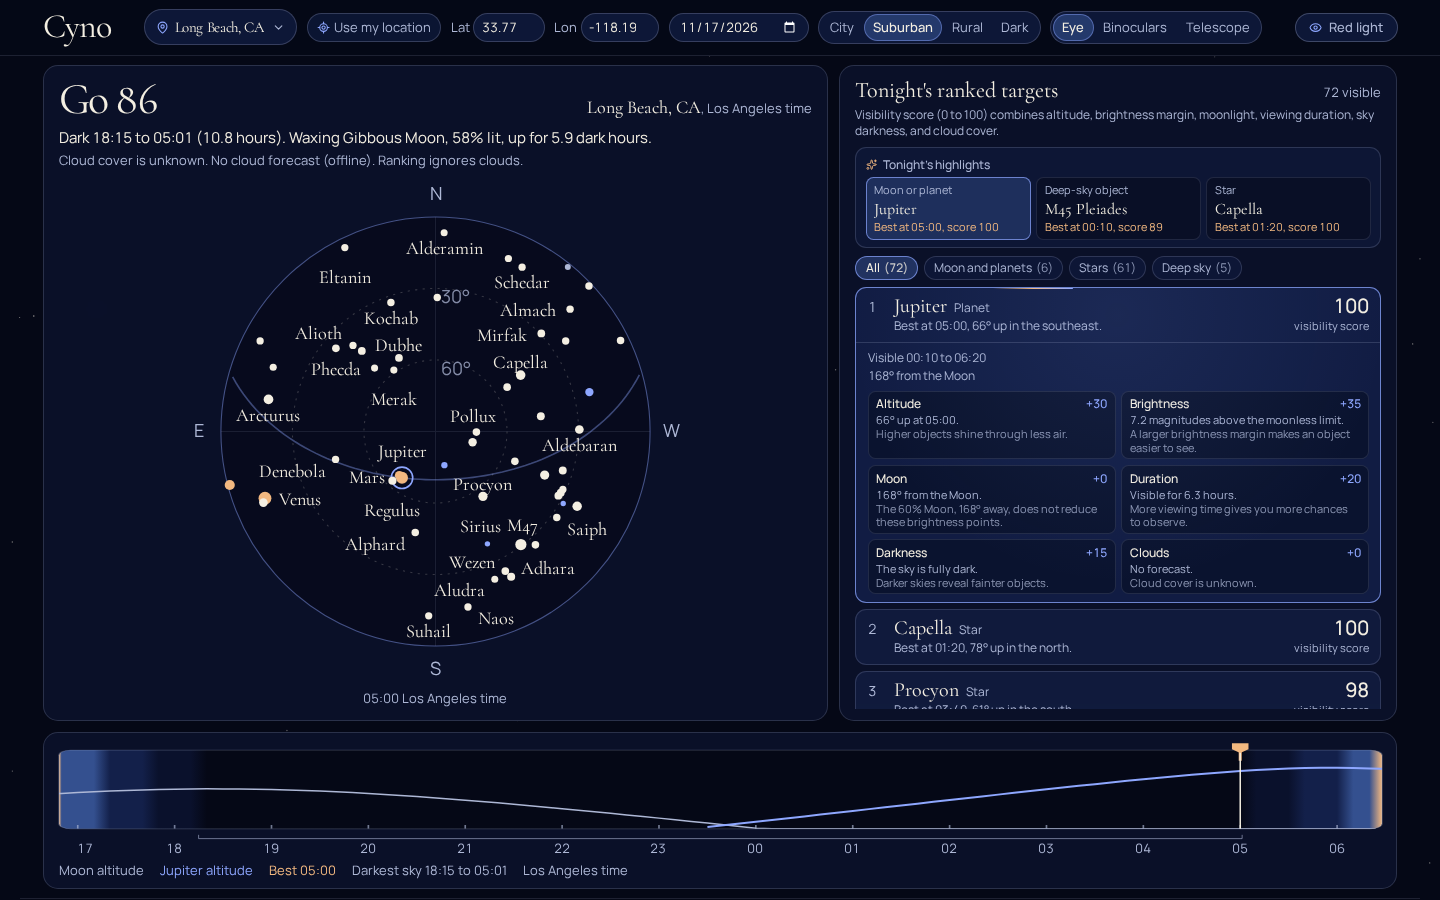
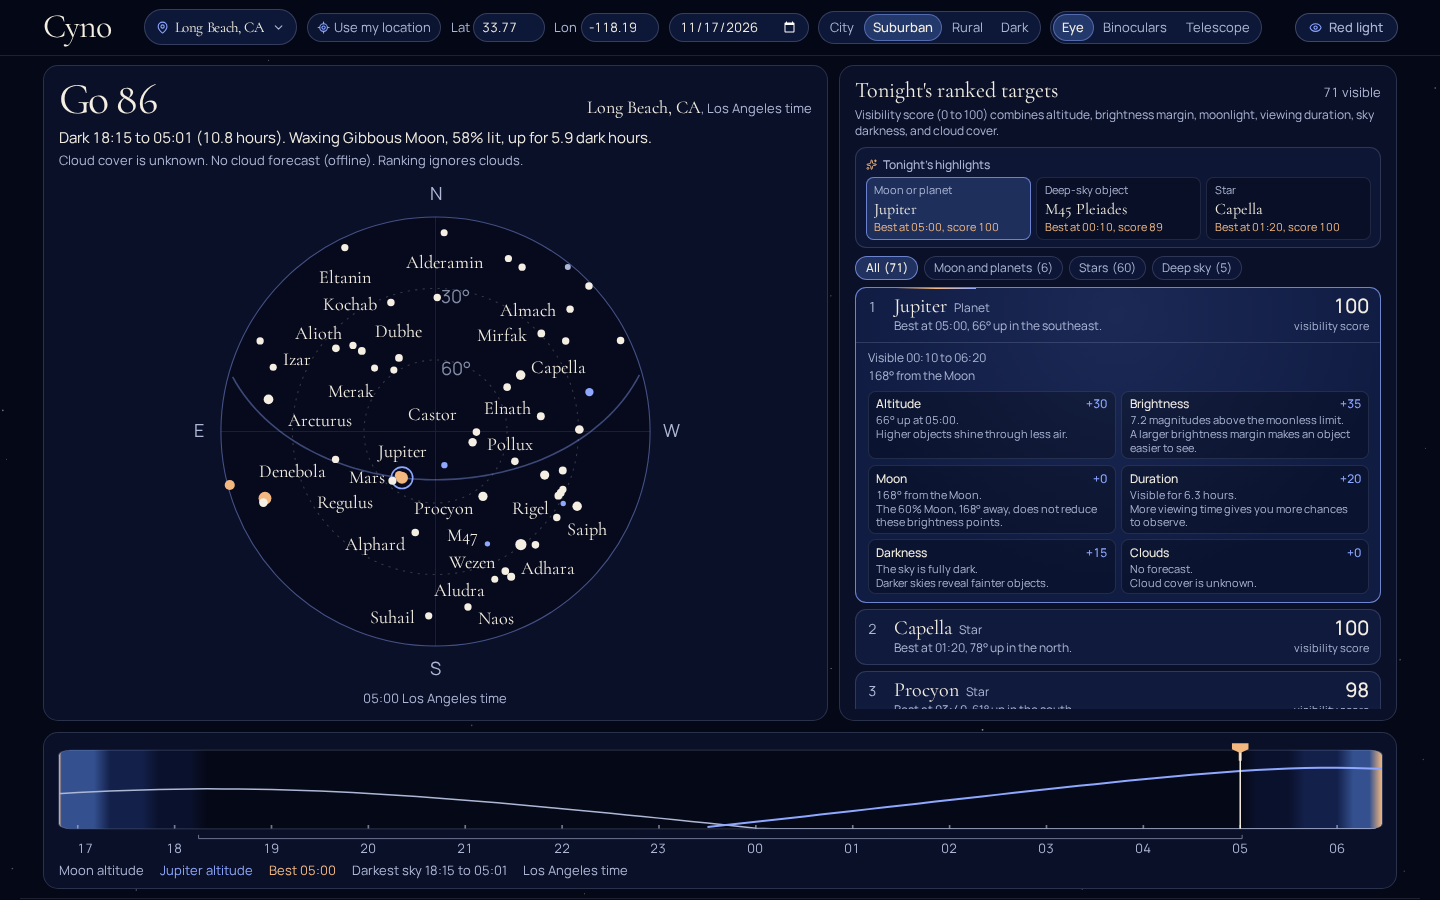
Link the live site in the README and refresh the screenshots
The app is live at https://bananatruck.github.io/Cyno/. The README also
states the new no-go rule and the extinction air mass, and the screenshots
show the current UI.

diff --git a/README.md b/README.md
@@ -4,7 +4,7 @@ Design notes for an agentic astronomy assistant - a companion that answers
 space questions, plans stargazing around your location and the weather, and
 tells you when something worth looking at is about to happen.
 
-> **Milestone 1 is built: what can I see tonight.**
+> **Milestone 1 is built: what can I see tonight.** Try it at https://bananatruck.github.io/Cyno/
 > Give it a latitude, longitude and date, and it returns a ranked list of the objects you can actually see, with the reasoning for every rank, a sky chart and a night timeline.
 > It runs entirely in the browser with no keys, no server and no model calls.
 > The conversational assistant, notifications and everything else in the plans below are not built yet.
@@ -17,7 +17,7 @@ tells you when something worth looking at is about to happen.
 
 The desktop, phone and Red-Light screenshots show Long Beach, CA on 2026-11-17, and the third table image shows Tromso on 2026-06-21.
 The browser test takes them with the cloud forecast blocked, so they show computed data only.
-They are not deployed anywhere yet; see "Run it" to open the app locally.
+The app is live at **https://bananatruck.github.io/Cyno/**, deployed from `main` by the Pages workflow.
 
 ## What is here
 
@@ -108,7 +108,7 @@ Polar day, polar night and summer nights that never get fully dark are normal re
 **Visibility is an estimate from a sky-brightness model.**
 The sky's brightness is the sum of three sources: light pollution (a preset from city to dark site), twilight, and moonlight at the object's position from the Krisciunas and Schaefer (1991) model.
 That brightness sets a limiting magnitude, raised by a fixed amount for binoculars or a telescope.
-An object's magnitude is dimmed by the air it shines through and, for galaxies and nebulae, by a penalty for being spread out.
+An object's magnitude is dimmed by the air it shines through (using the paper's air mass for directly observed objects, which reaches 40 at the horizon) and, for galaxies and nebulae, by a penalty for being spread out.
 The difference is the margin: an object is visible when it is at least 10 degrees up, the Sun is below -0.833 degrees, the margin is zero or more, and clouds (when a forecast is available) are under 80 percent.
 The best moment is the visible sample with the largest margin.
 
@@ -127,6 +127,7 @@ The parts always add up to the score, so every rank can be checked by hand.
 The score measures how well you can see an object tonight, not how interesting it is, which is why bright stars rank high; the app's filters and highlights help with the second question.
 
 **The Go/No-Go verdict** weighs hours of real darkness (40 points), how much of that time a bright Moon is up (30) and the forecast cloud cover (30, left out and rescaled when there is no forecast).
+A night is always No-Go when the forecast averages 80 percent cloud or more over the dark hours, or when nothing at all is visible.
 
 ## How correctness is checked
 
